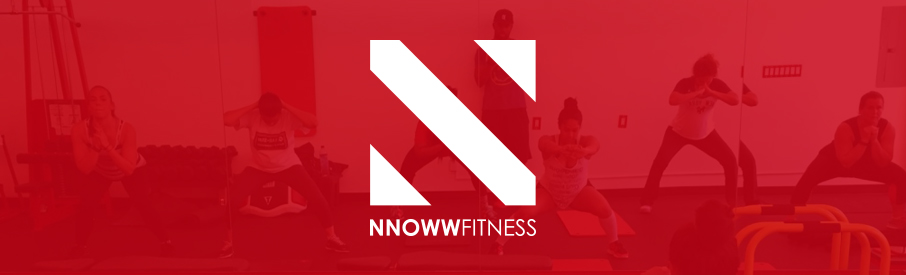
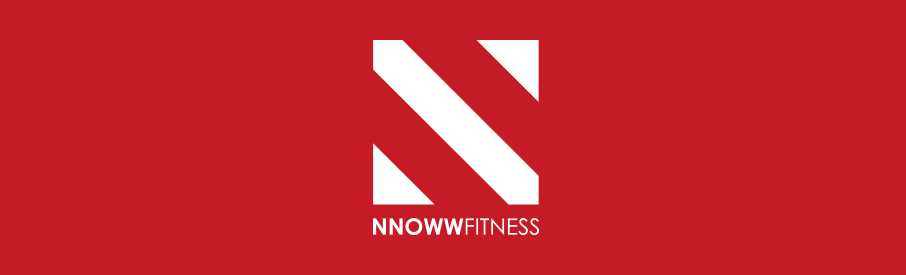
updated hover

diff --git a/index.html b/index.html
@@ -8,7 +8,7 @@
         <link rel="stylesheet" href="bootstrap.css">
         <link rel="stylesheet" href="bootstrap-theme.css">
         <link rel="stylesheet" href="main.css">
-        <link rel="stylesheet" href="//maxcdn.bootstrapcdn.com/font-awesome/4.5.0/css/font-awesome.min.css"/>
+        <!-- <link rel="stylesheet" href="maxcdn.bootstrapcdn.com/font-awesome/4.5.0/css/font-awesome.min.css"/> -->
         <!-- <link href="https://fonts.googleapis.com/css?family=Open+Sans" rel="stylesheet"> -->
         <link href="https://fonts.googleapis.com/css?family=Montserrat:200,300,400,700,900" rel="stylesheet">
         <script src="https://ajax.aspnetcdn.com/ajax/jQuery/jquery-3.3.1.min.js"></script>
@@ -100,25 +100,30 @@
             </div>
           </div> -->
 
-        <!-- Print Work -->
+        <!-- Web Dev Work -->
 
         <div class="col-xs-12 col-md-12 col-lg-12">
             <h1>Web Development Projects</h1>
         </div>
-        <div class="skills-Animate col-xs-12 col-md-12 col-lg-6">
-          <div class="nnoww"></div>
-          <!-- <a class="contact_btn" href="#"><div class="img5"></div></a> -->
-          <!-- <p class="img-description"><span class="text_description">Todo List App:</span> Simple app that tracks your list of todos, built using HTML/CSS/JavaScript.</p> -->
+
+        <div id="webDev1" class="nnoww skills-Animate col-xs-12 col-md-12 col-lg-6">
+            
         </div>
+
         <div class="skills-Animate work col-xs-12 col-md-12 col-lg-6">
           <div class="drs"></div>
           <!-- <a class="contact_btn" href="#"><div class="img6"></div></a> -->
           <!-- <p class="img-description"><span class="text_description">NNOWW Fitness Website:</span> Company website for a local gym, built using HTML/CSS/JavaScript</p> -->
 
     </div>
-            <div class="work col-xs-12 col-md-12 col-lg-12">
-                <h1>Graphic Design Work</h1>
-            </div>
+
+
+     <!-- Print Work -->
+
+
+        <div class="work col-xs-12 col-md-12 col-lg-12">
+            <h1>Graphic Design Work</h1>
+        </div>
         <div class="skills-Animate work col-xs-12 col-md-6 col-lg-3">
             <a class="contact_btn" href="work.html#egc"><div class="img1"></div></a>
             <!-- <p class="img-description"><span class="text_description">2018 Employee Giving Campaign: </span>Annual campaign dedicated to raising money from employees, that will benefit our members in need. The concept was "Help Us Reach Our Goal".</p> -->
@@ -136,14 +141,9 @@
             <!-- <p class="img-description"><span class="text_description">Tribute Brochure</span> Multi-part brochure offering different ways members can honor their loved ones and make a donation in the process.</p> -->
         </div>
 
-            <!-- Digital Work -->
+        
 
 
-
-        <!-- <div class="skills-Animate work col-xs-12 col-md-12 col-lg-4">
-          <div class="img"></div>
-          <p class="img-description">Lorem ipsum dolor sit ametolor sit amet, sea error legeere ei.re ei., sea error legere ere ei.ei. Vis ex zril aliquip sententiae,</p>
-        </div> -->
       </div>
     </div>
           <!-- Contact Me -->

diff --git a/main.css b/main.css
@@ -162,6 +162,7 @@ div.work {
   /*margin-top: 1%;*/
 }
 
+
 div.nnoww {
   background-image: url(assets/nnoww.jpg);
   background-size: cover;
@@ -208,7 +209,7 @@ div.skills_bar_indesign {
   font-size: 15px;
   color: white;
   padding-left: 0.75%;
-  width: 100%%;
+  width: 100%;
   font-family: helvetica;
   font-weight: bold;
   border-radius: 10px;
@@ -336,7 +337,12 @@ span.percentage {
 
 span {
   font-weight: lighter;
+  color: #eee;
   font-size: 18px;
+}
+
+span.test {
+  color: pink;
 }
 
 /* skills bar animation */
@@ -501,10 +507,14 @@ div.img6 {
 
 
 div.img_hover {
-  background-color: rgba(0, 0, 0, 0.3);
-  /*border: solid 3px rgb(225, 226, 110);*/
-
+  background-color: rgba(60, 59, 59, 1);
+  text-align: center;
+  /* color: rgb(252, 214, 63); */
+  padding-top: 100px;
+  font-weight: bold;
+  background-image: none;
 }
+
 
 div.expertise {
   width: 400px;

diff --git a/main.js b/main.js
@@ -114,22 +114,12 @@ function()
   $(this).html($(""));
 });
 
-$(".img5").hover(function() {
+$("#webDev1").hover(function() {
   $(this).toggleClass("img_hover")
-  $(this).html($("<span> Todo List App </span>"));
+  $(this).html($("<span> NNOWW Fitness Website: Website for local fitness studio. </span>"));
 },
 function()
 {
   $(this).toggleClass("img_hover")
-  $(this).html($(""));
-});
-
-$("#project1").hover(function() {
-  // $(this).toggleClass("img_hover")
-  // $(this).html($("<span> NNOWW Fitness Website </span>"));
-},
-function()
-{
-  // $(this).toggleClass("img_hover")
-  // $(this).html($(""));
+  $(this).html($(''));
 });
